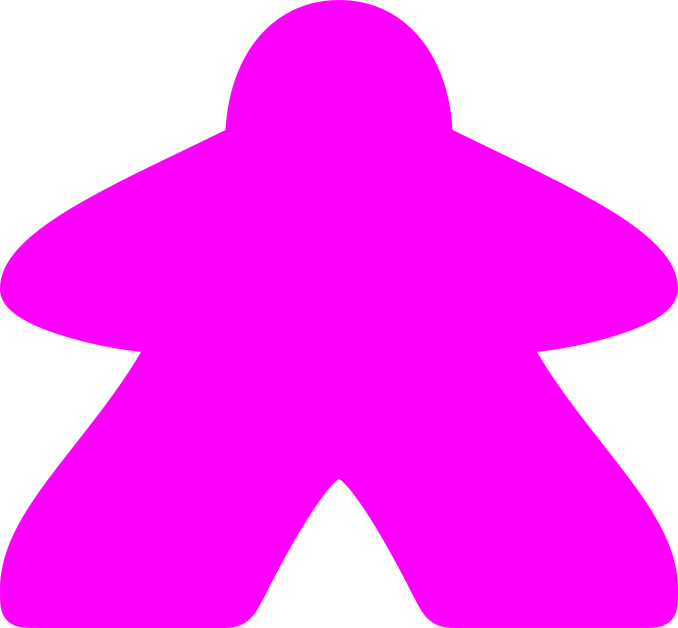
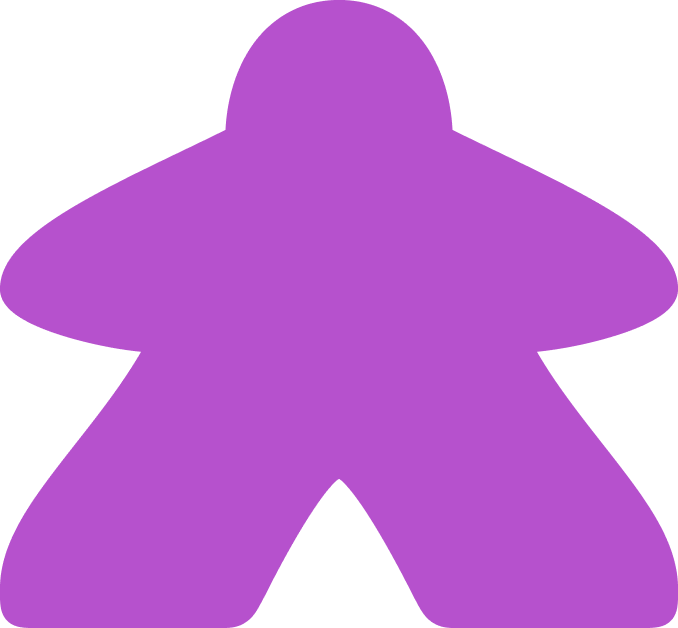
Reworked meeple colors and disabled debug

diff --git a/src/settings.py b/src/settings.py
@@ -52,7 +52,7 @@ if FULLSCREEN:
         print(f"Failed to detect fullscreen resolution: {e}")
 
 # Debug
-DEBUG = True
+DEBUG = False
 LOG_TO_CONSOLE = False
 GAME_LOG_MAX_ENTRIES = 10000
 MAX_RETRY_ATTEMPTS = 3
